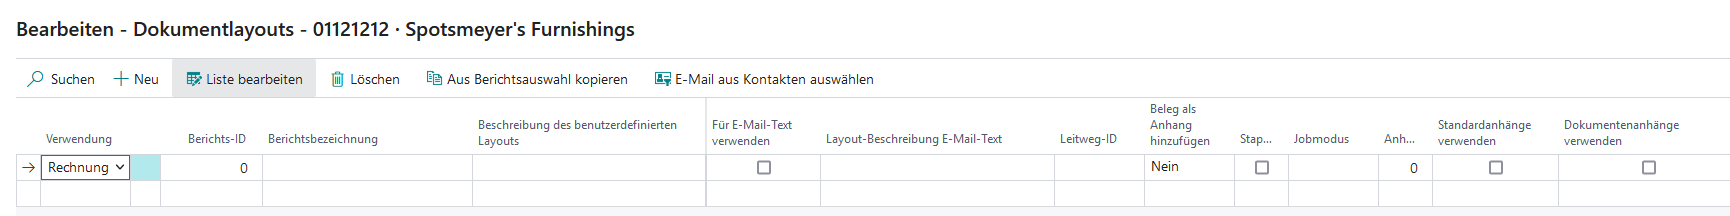
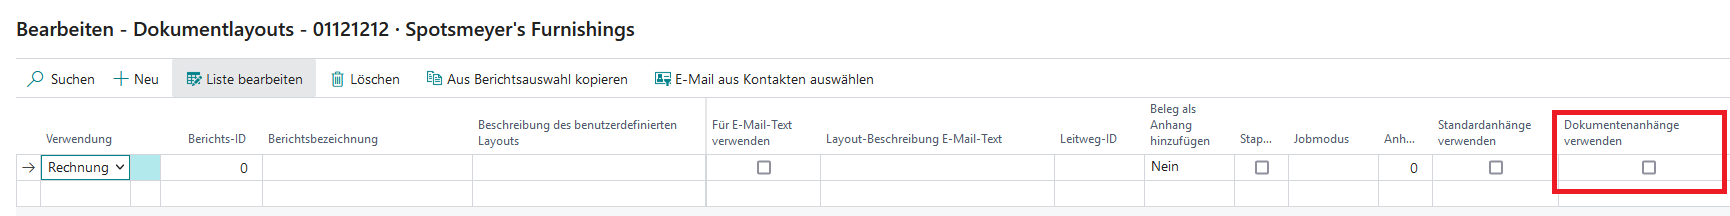
Mail Attachment Plus Ergänzungen

Changed region(s): [[0.874, 0.5, 0.9988, 0.5556], [0.874, 0.8611, 0.9988, 0.9167]]

diff --git a/content/de-de/Apps/mail-attachments-plus/first steps/setup/defaults customer.md b/content/de-de/Apps/mail-attachments-plus/first steps/setup/defaults customer.md
@@ -18,13 +18,15 @@ Wenn Sie in der Berichtsauswahl bereits Voreinstellungen vorgenommen haben, ist 
 
 Wenn Sie Ihre eigenen Anhänge einrichten möchten, wählen Sie den Bericht aus, für den Sie Standardanhänge hinzufügen möchten; in diesem Beispiel verwenden wir wieder Rechnungen. Wie zuvor werden Sie das neue Feld Anhänge bemerken. Sie öffnen das Dialogfeld für Anhänge, indem Sie auf die Null klicken.
 
-![](images/apps/attachmentdocumentlayouts.png)
+![](images/apps/attachmentdocumentlayouts_new.png)
 
 Der restliche Prozess funktioniert genauso wie das Hinzufügen von Standardanhängen zu Berichten, ohne diese kundenspezifisch zu gestalten. Sie können die gleichen Optionen wie zuvor verwenden, einschließlich des Datumsbereichs. Nachdem Sie Ihre Vorgaben hinzugefügt haben, schließen Sie das Anlagen-Dialogfeld.
 
 {{< notice info "Hinweis" >}}
- _Eine wichtige Sache, die bei auf Kundenbasis festgelegten Standards zu beachten ist, ist, dass sie die regulären Standards überschreiben. Für den Fall, dass dies nicht erwünscht ist, werden durch das Ankreuzen des Kästchens im Feld "Standard Anhängen" die kundenspezifischen Anhänge zusätzlich zu den Standardanhängen hinzugefügt._
+ _Zu beachten ist bei Standardanhängen, die auf Ebene des Debitors festgelegt werden, dass sie die in der Berichtsauswahl gesetzten Standards überschreiben. Für den Fall, dass dies nicht erwünscht ist, kann im Feld "Standard anhängen" ein Haken gesetzt werden. Dadurch werden weiterhin die allgemeinen Standardanhänge und zusätzlich die kundenspezifischen Anhänge angefügt._
 {{< /notice >}}
-#
-
+{{< notice info "Hinweis" >}}
+_Die im obigen Screenshot markierte Checkbox "Dokumentanhänge anhängen" dient nicht der Steuerung der hier hochgeladenen Anhänge. Mit ihr wird gesteuert, ob am einzelnen Dokument befindliche Anhänge ebenfalls verschickt werden sollen._
+{{< /notice >}}
+####
 Sobald die Anhänge eingestellt sind, kann eine Mail wie gewohnt versendet werden, eine Anleitung hierzu finden Sie im Bereich **"Arbeiten mit Mail Attachment Plus"** unter [Debitor Standardanhänge](de-de/apps/mail-attachments-plus/working-with-map/defaults-customer/)

diff --git a/content/de-de/Apps/mail-attachments-plus/first steps/setup/defaults document.md b/content/de-de/Apps/mail-attachments-plus/first steps/setup/defaults document.md
@@ -18,10 +18,13 @@ Klicken Sie nun bei "Belege" auf die 0, es öffnet sich ein Fenster in dem Sie v
 
 ![](images/apps/attachmentdoc.PNG)
 
-Wählen Sie die gewünschte Datei aus und wiederholen diesen Prozess bis alle gewünschten Dateien angehängt sind. Ab jetzt werden die ausgewählten Dateien immer mit versendet wenn Sie den ausgewählten Beleg versenden.
+Wählen Sie die gewünschte Datei aus und wiederholen diesen Prozess bis alle gewünschten Dateien angehängt sind. Ab jetzt können die ausgewählten Dateien immer mit versendet werden, wenn Sie den ausgewählten Beleg versenden.
+Um diese Option tatsächlich zu nutzen, muss in der passenden Berichtsauswahl bzw. den Dokumentenlayouts des jeweiligen Debitors noch der Haken im Feld **"Dokumentenanhänge verwenden"** gesetzt werden.
+Dabei ist zu beachten, dass die Einstellung in den Dokumentenlayouts diejenige in der Berichtsauswahl überschreibt.
+![](images/apps/mail_att_plus_berichtsauswahl.png)
 
-Um diese Funktionalität voll zu aktivieren, muss in den Dokumentenlayouts des jeweiligen Debtior zunächst noch der Haken bei **"Dokumentenanhänge verwenden"** gesetzt werden.
+![](images/apps/mail_att_plus_dokumentenlayout.png)
 
-![](images/apps/documents_de.png)
+Soll das Überschreiben verhindert werden, also neben den kundenspezifischen Standardanhängen auch die allgemeinen Standardanhänge angefügt werden, kann dies durch Setzen des Hakens im Feld "Standard anhängen" erreicht werden.
 
 Sobald die Anhänge eingestellt sind, kann eine Mail wie gewohnt versendet werden, eine Anleitung hierzu finden Sie im Bereich **"Arbeiten mit Mail Attachment Plus"** unter [Beleg Standardanhänge](de-de/apps/mail-attachments-plus/working-with-map/defaults-document/)

diff --git a/content/de-de/Apps/mail-attachments-plus/first steps/setup/defaults report.md b/content/de-de/Apps/mail-attachments-plus/first steps/setup/defaults report.md
@@ -10,7 +10,7 @@ weight: 2
 
 ### Hinzufügen von Standardanhängen pro Bericht
 
-![](images/apps/attachmentreportselection.png)
+![](images/apps/attachmentreportselection_new.png)
 
 Standardanhänge sind eine gute Möglichkeit, Zeit zu sparen, wenn Sie Ihren E-Mails Dateien hinzufügen. Wenn Sie den gleichen Anhang in jeder E-Mail verwenden, fügen Sie ihn einfach als Standard hinzu, und er wird automatisch an jede E-Mail angehängt.
 
@@ -27,6 +27,8 @@ Nach dem Hinzufügen der Datei(en) sind Ihnen möglicherweise die Felder "Von Da
 {{< notice info "Hinweis" >}}
  _Das für die Anlage eingestellte Datum verwendet nicht das Systemdatum zur Bestimmung des Tages, sondern das Arbeitsdatum Ihrer Business Central Umgebung._
 {{< /notice >}}
-#
-
+{{< notice info "Hinweis" >}}
+_Die im obigen Screenshot markierte Checkbox "Dokumentanhänge anhängen" dient nicht der Steuerung der hier hochgeladenen Anhänge. Mit ihr wird gesteuert, ob am einzelnen Dokument befindliche Anhänge ebenfalls verschickt werden sollen._
+{{< /notice >}}
+####
 Sobald die Anhänge eingestellt sind, kann eine Mail wie gewohnt versendet werden, eine Anleitung hierzu finden Sie im Bereich **"Arbeiten mit Mail Attachment Plus"** unter [Bericht Standardanhänge](de-de/apps/mail-attachments-plus/working-with-map/defaults-report/)
